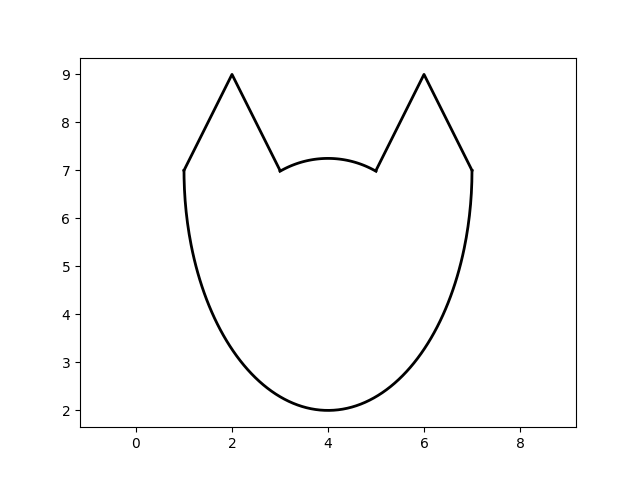
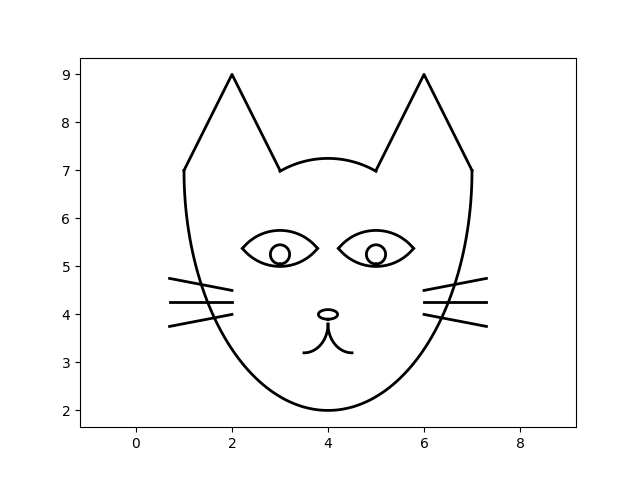
jojjooj

diff --git a/lec_1_aproccimatio.py b/lec_1_aproccimatio.py
@@ -1,0 +1,96 @@
+import matplotlib.pyplot as plt
+import numpy as np
+
+fig, ax = plt.subplots()
+x = [1, 2, 3]
+y = [7, 9, 7]
+ax.plot(x, y, '-', lw=2, color='k')
+
+
+t = np.linspace(np.pi/2-np.pi/6,np.pi/2+np.pi/6, 100 )
+x = 4 + 2*np.cos(t)
+y = 5.25 + 2*np.sin(t)
+ax.plot(x, y, '-', lw=2, color='k')
+
+
+x = [5, 6, 7]
+y = [7, 9, 7]
+ax.plot(x, y, '-', lw=2, color='k')
+
+
+t = np.linspace(np.pi*2, np.pi, 100 )
+x = 4 + 3*np.cos(t)
+y = 7 + 5*np.sin(t)
+ax.plot(x, y, '-', lw=2, color='k')
+
+t = np.linspace(np.pi/2-np.pi/3.5,np.pi/2+np.pi/3.5, 100 )
+x = 3 + 1*np.cos(t)
+y = 4.75 + 1*np.sin(t)
+ax.plot(x, y, '-', lw=2, color='k')
+
+t = np.linspace(-np.pi/2+np.pi/3.5,-np.pi/2-np.pi/3.5, 100 )
+x = 3 + 1*np.cos(t)
+y = 6 + 1*np.sin(t)
+ax.plot(x, y, '-', lw=2, color='k')
+
+t = np.linspace(np.pi/2-np.pi/3.5,np.pi/2+np.pi/3.5, 100 )
+x = 5 + 1*np.cos(t)
+y = 4.75 + 1*np.sin(t)
+ax.plot(x, y, '-', lw=2, color='k')
+
+t = np.linspace(-np.pi/2+np.pi/3.5,-np.pi/2-np.pi/3.5, 100 )
+x = 5 + 1*np.cos(t)
+y = 6 + 1*np.sin(t)
+ax.plot(x, y, '-', lw=2, color='k')
+
+t = np.linspace(-np.pi/2,3*np.pi/2, 100 )
+x = 5 + 0.2*np.cos(t)
+y = 5.25 + 0.2*np.sin(t)
+ax.plot(x, y, '-', lw=2, color='k')
+
+t = np.linspace(-np.pi/2,3*np.pi/2, 100 )
+x = 3 + 0.2*np.cos(t)
+y = 5.25 + 0.2*np.sin(t)
+ax.plot(x, y, '-', lw=2, color='k')
+
+t = np.linspace(np.pi, 3*np.pi/2, 100 )
+x = 4.5 + 0.5*np.cos(t)
+y = 3.8 + 0.6*np.sin(t)
+ax.plot(x, y, '-', lw=2, color='k')
+
+t = np.linspace(3/2*np.pi, 2*np.pi, 100 )
+x = 3.5 + 0.5*np.cos(t)
+y = 3.8 + 0.6*np.sin(t)
+ax.plot(x, y, '-', lw=2, color='k')
+
+t = np.linspace(-np.pi/2,3*np.pi/2, 100 )
+x = 4 + 0.2*np.cos(t)
+y = 4 + 0.1*np.sin(t)
+ax.plot(x, y, '-', lw=2, color='k')
+
+x = [2, 0.7]
+y = [4.5, 4.75]
+ax.plot(x, y, '-', lw=2, color='k')
+
+x = [2, 0.7]
+y = [4.25, 4.25]
+ax.plot(x, y, '-', lw=2, color='k')
+
+x = [2, 0.7]
+y = [4, 3.75]
+ax.plot(x, y, '-', lw=2, color='k')
+
+x = [6, 7.3]
+y = [4.5, 4.75]
+ax.plot(x, y, '-', lw=2, color='k')
+
+x = [6, 7.3]
+y = [4.25, 4.25]
+ax.plot(x, y, '-', lw=2, color='k')
+
+x = [6, 7.3]
+y = [4, 3.75]
+ax.plot(x, y, '-', lw=2, color='k')
+
+plt.axis('equal')
+plt.savefig("cat.png")

diff --git a/kffo.py b/kffo.py
@@ -1,0 +1,55 @@
+import matplotlib.pyplot as plt 
+import numpy as np 
+ 
+img = plt.imread('head.jpg') 
+fig, ax = plt.subplots() 
+ax.imshow(img) 
+ 
+ 
+t = np.linspace(np.pi-np.pi/8, np.pi/1.8, 100) 
+x = 400 + 240 * np.cos(t) 
+y = 800 - 240 * np.sin(t) 
+ax.plot(x, y, '-', lw=2, color = 'k') 
+ 
+ 
+t =  np.linspace(3 * np.pi/2, 2 * np.pi, 200) 
+x = 360 + 115 * np.cos(t) 
+y = 348 - 215 * np.sin(t) 
+ax.plot(x, y, '-', lw=2, color = 'k') 
+ 
+ 
+x = [475, 385] 
+y = [350, 370] 
+ax.plot(x, y, '-', lw=2, color = 'k') 
+ 
+t =  np.linspace(np.pi/2, 3 * np.pi/2, 200) 
+x = 380 + 60 * np.cos(t) 
+y = 320 - 50 * np.sin(t) 
+ax.plot(x, y, '-', lw=2, color = 'k') 
+ 
+t =  np.linspace(3 * np.pi/2, 2 * np.pi, 200) 
+x = 380 + 100 * np.cos(t) 
+y = 160 - 110 * np.sin(t) 
+ax.plot(x, y, '-', lw=2, color = 'k') 
+ 
+t =  np.linspace(np.pi, 3 * np.pi/2, 200) 
+x = 610 + 130 * np.cos(t) 
+y = 155 - 45 * np.sin(t) 
+ax.plot(x, y, '-', lw=2, color = 'k') 
+ 
+t =  np.linspace(2 * np.pi, 5 * np.pi/2, 200) 
+x = 610 + 105 * np.cos(t) 
+y = 300 - 100 * np.sin(t) 
+ax.plot(x, y, '-', lw=2, color = 'k') 
+ 
+x = [715, 690] 
+y = [300, 580] 
+ax.plot(x, y, '-', lw=2, color = 'k') 
+ 
+t =  np.linspace(np.pi/2, np.pi,  200) 
+x = 690 + 60 * np.cos(t) 
+y = 705 - 125 * np.sin(t) 
+ax.plot(x, y, '-', lw=2, color = 'k') 
+ 
+ 
+plt.savefig('horse.png')
